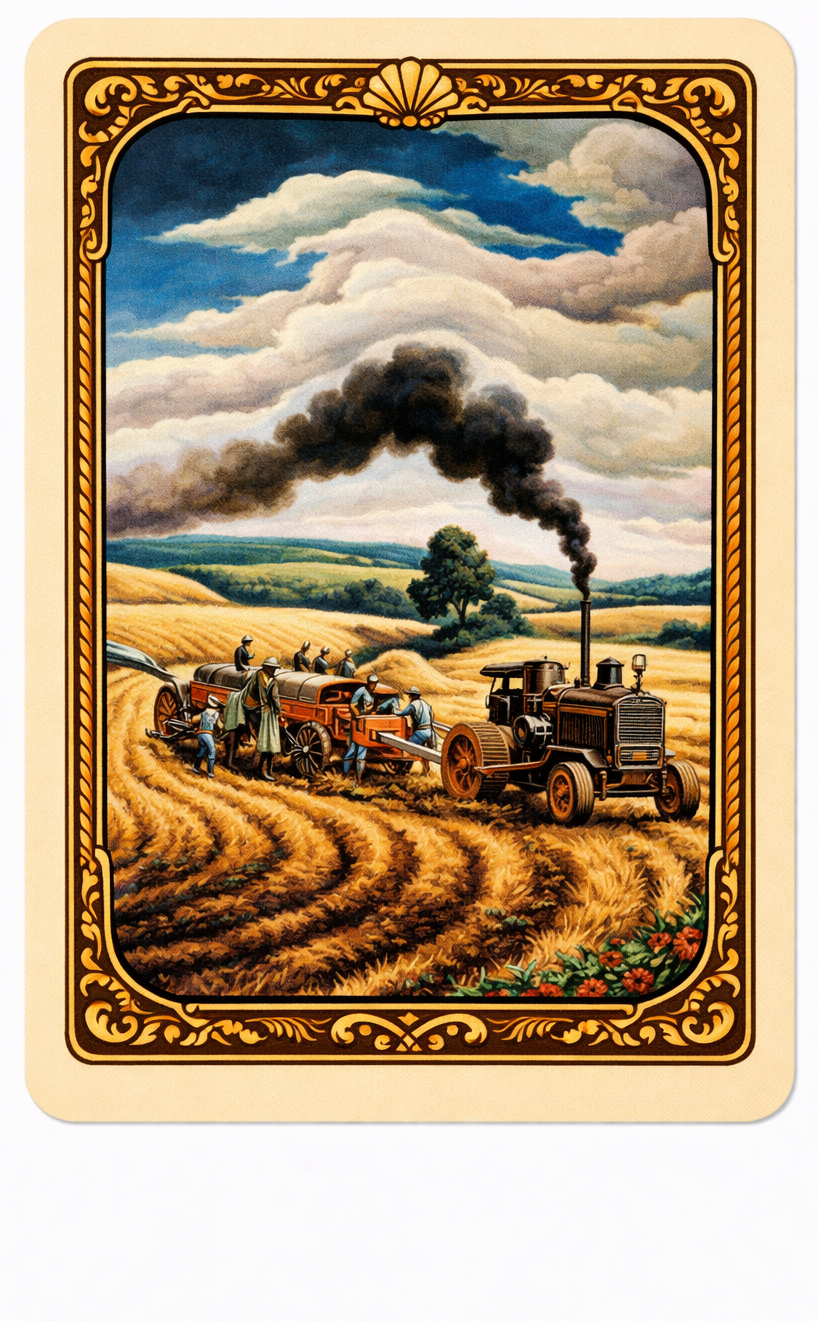
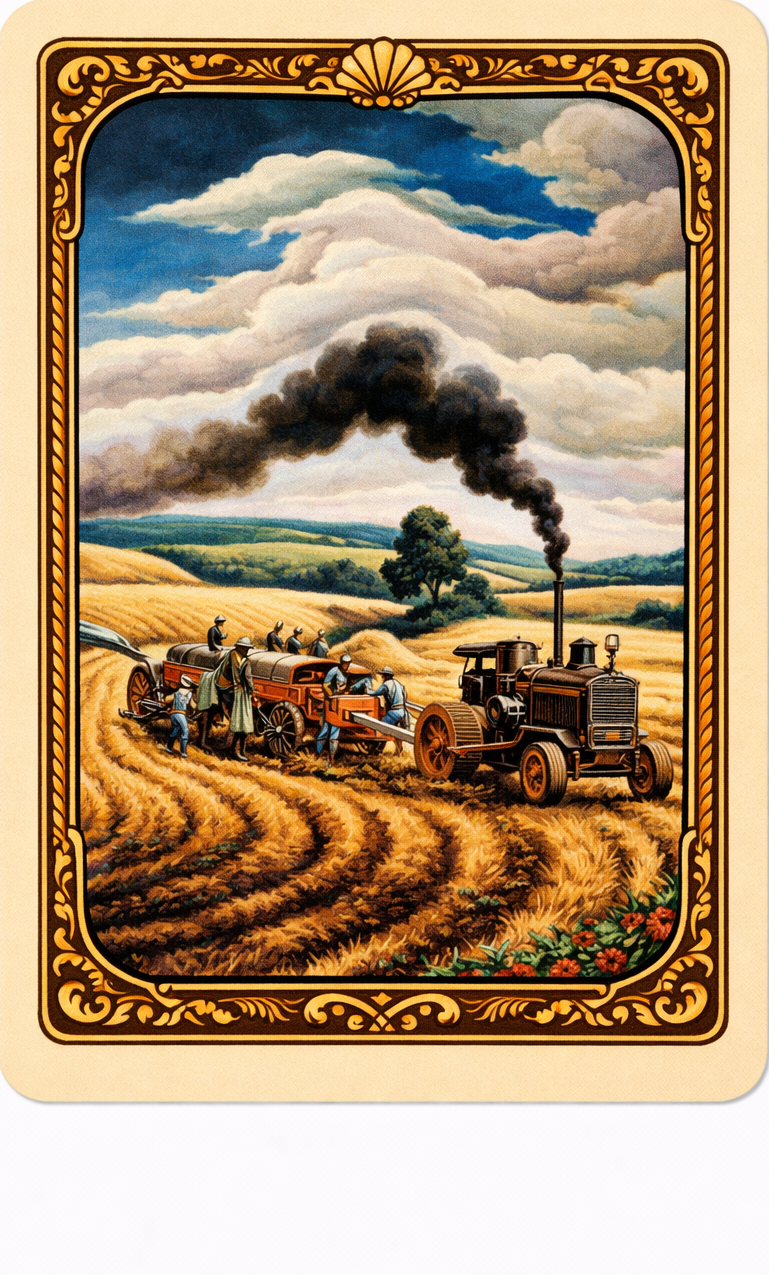
feat: recover all 17 painting originals and re-crop with auto-crop tool
- Recovered 11 originals from git history (commits 1f9f238, d77f3fd, 33e1218)
- 6 newer paintings (964a308) were already partially cropped; re-cropped to
  remove residual white/cream edges detected by the auto-crop algorithm
- White border sizes varied significantly across images (82-126px sides,
  85-131px top, 135-224px bottom) — algorithm handled all correctly
- All 17 paintings now consistently show cream border + ornate frame
- Archived all originals in originals/ directory

diff --git a/cribbage-app/lib/version.js b/cribbage-app/lib/version.js
@@ -1,5 +1,5 @@
 // Single source of truth for app version
-export const APP_VERSION = 'v0.3.0-b211-20260312';
+export const APP_VERSION = 'v0.3.0-b212-20260312';
 export const RELEASE_NOTE = `Thank you for playing Cribbage! 🎴
 
 New in this release:

diff --git a/cribbage-app/prompts/improve-painting-image-processing-and-rendering-plan.md b/cribbage-app/prompts/improve-painting-image-processing-and-rendering-plan.md
@@ -25,14 +25,14 @@
   - 🤖 [x] [Step 3.5: Update DeckCut.jsx — deck overlay icon](#step-35-update-decutjsx--deck-overlay-icon-🤖)
   - 🤖 [x] [Step 3.6: Update CardBackPreview — full-screen preview](#step-36-update-cardbackpreview--full-screen-preview-🤖)
 - 🤖👤 [ ] [Phase 4: Build, Deploy, and Verify Skyscraper](#phase-4-build-deploy-and-verify-skyscraper-🤖👤)
-  - 🤖 [ ] [Step 4.1: Build and deploy](#step-41-build-and-deploy-🤖)
+  - 🤖 [x] [Step 4.1: Build and deploy](#step-41-build-and-deploy-🤖)
   - 👤 [ ] [Step 4.2: Verify on Android — game play and Admin Panel](#step-42-verify-on-android--game-play-and-admin-panel-👤)
-- 🤖 [ ] [Phase 5: Recover and Process All Original Paintings](#phase-5-recover-and-process-all-original-paintings-🤖)
-  - 🤖 [ ] [Step 5.1: Recover originals from git history](#step-51-recover-originals-from-git-history-🤖)
-  - 🤖 [ ] [Step 5.2: Process each painting through the crop script](#step-52-process-each-painting-through-the-crop-script-🤖)
-  - 🤖 [ ] [Step 5.3: Visually verify all cropped images](#step-53-visually-verify-all-cropped-images-🤖)
-- 🤖 [ ] [Phase 6: Final Build, Commit, and Deploy](#phase-6-final-build-commit-and-deploy-🤖)
-  - 🤖 [ ] [Step 6.1: Build and deploy all paintings](#step-61-build-and-deploy-all-paintings-🤖)
+- 🤖 [x] [Phase 5: Recover and Process All Original Paintings](#phase-5-recover-and-process-all-original-paintings-🤖)
+  - 🤖 [x] [Step 5.1: Recover originals from git history](#step-51-recover-originals-from-git-history-🤖)
+  - 🤖 [x] [Step 5.2: Process each painting through the crop script](#step-52-process-each-painting-through-the-crop-script-🤖)
+  - 🤖 [x] [Step 5.3: Visually verify all cropped images](#step-53-visually-verify-all-cropped-images-🤖)
+- 🤖 [x] [Phase 6: Final Build, Commit, and Deploy](#phase-6-final-build-commit-and-deploy-🤖)
+  - 🤖 [x] [Step 6.1: Build and deploy all paintings](#step-61-build-and-deploy-all-paintings-🤖)
   - 👤 [ ] [Step 6.2: Final verification on Android](#step-62-final-verification-on-android-👤)
 
 ---
